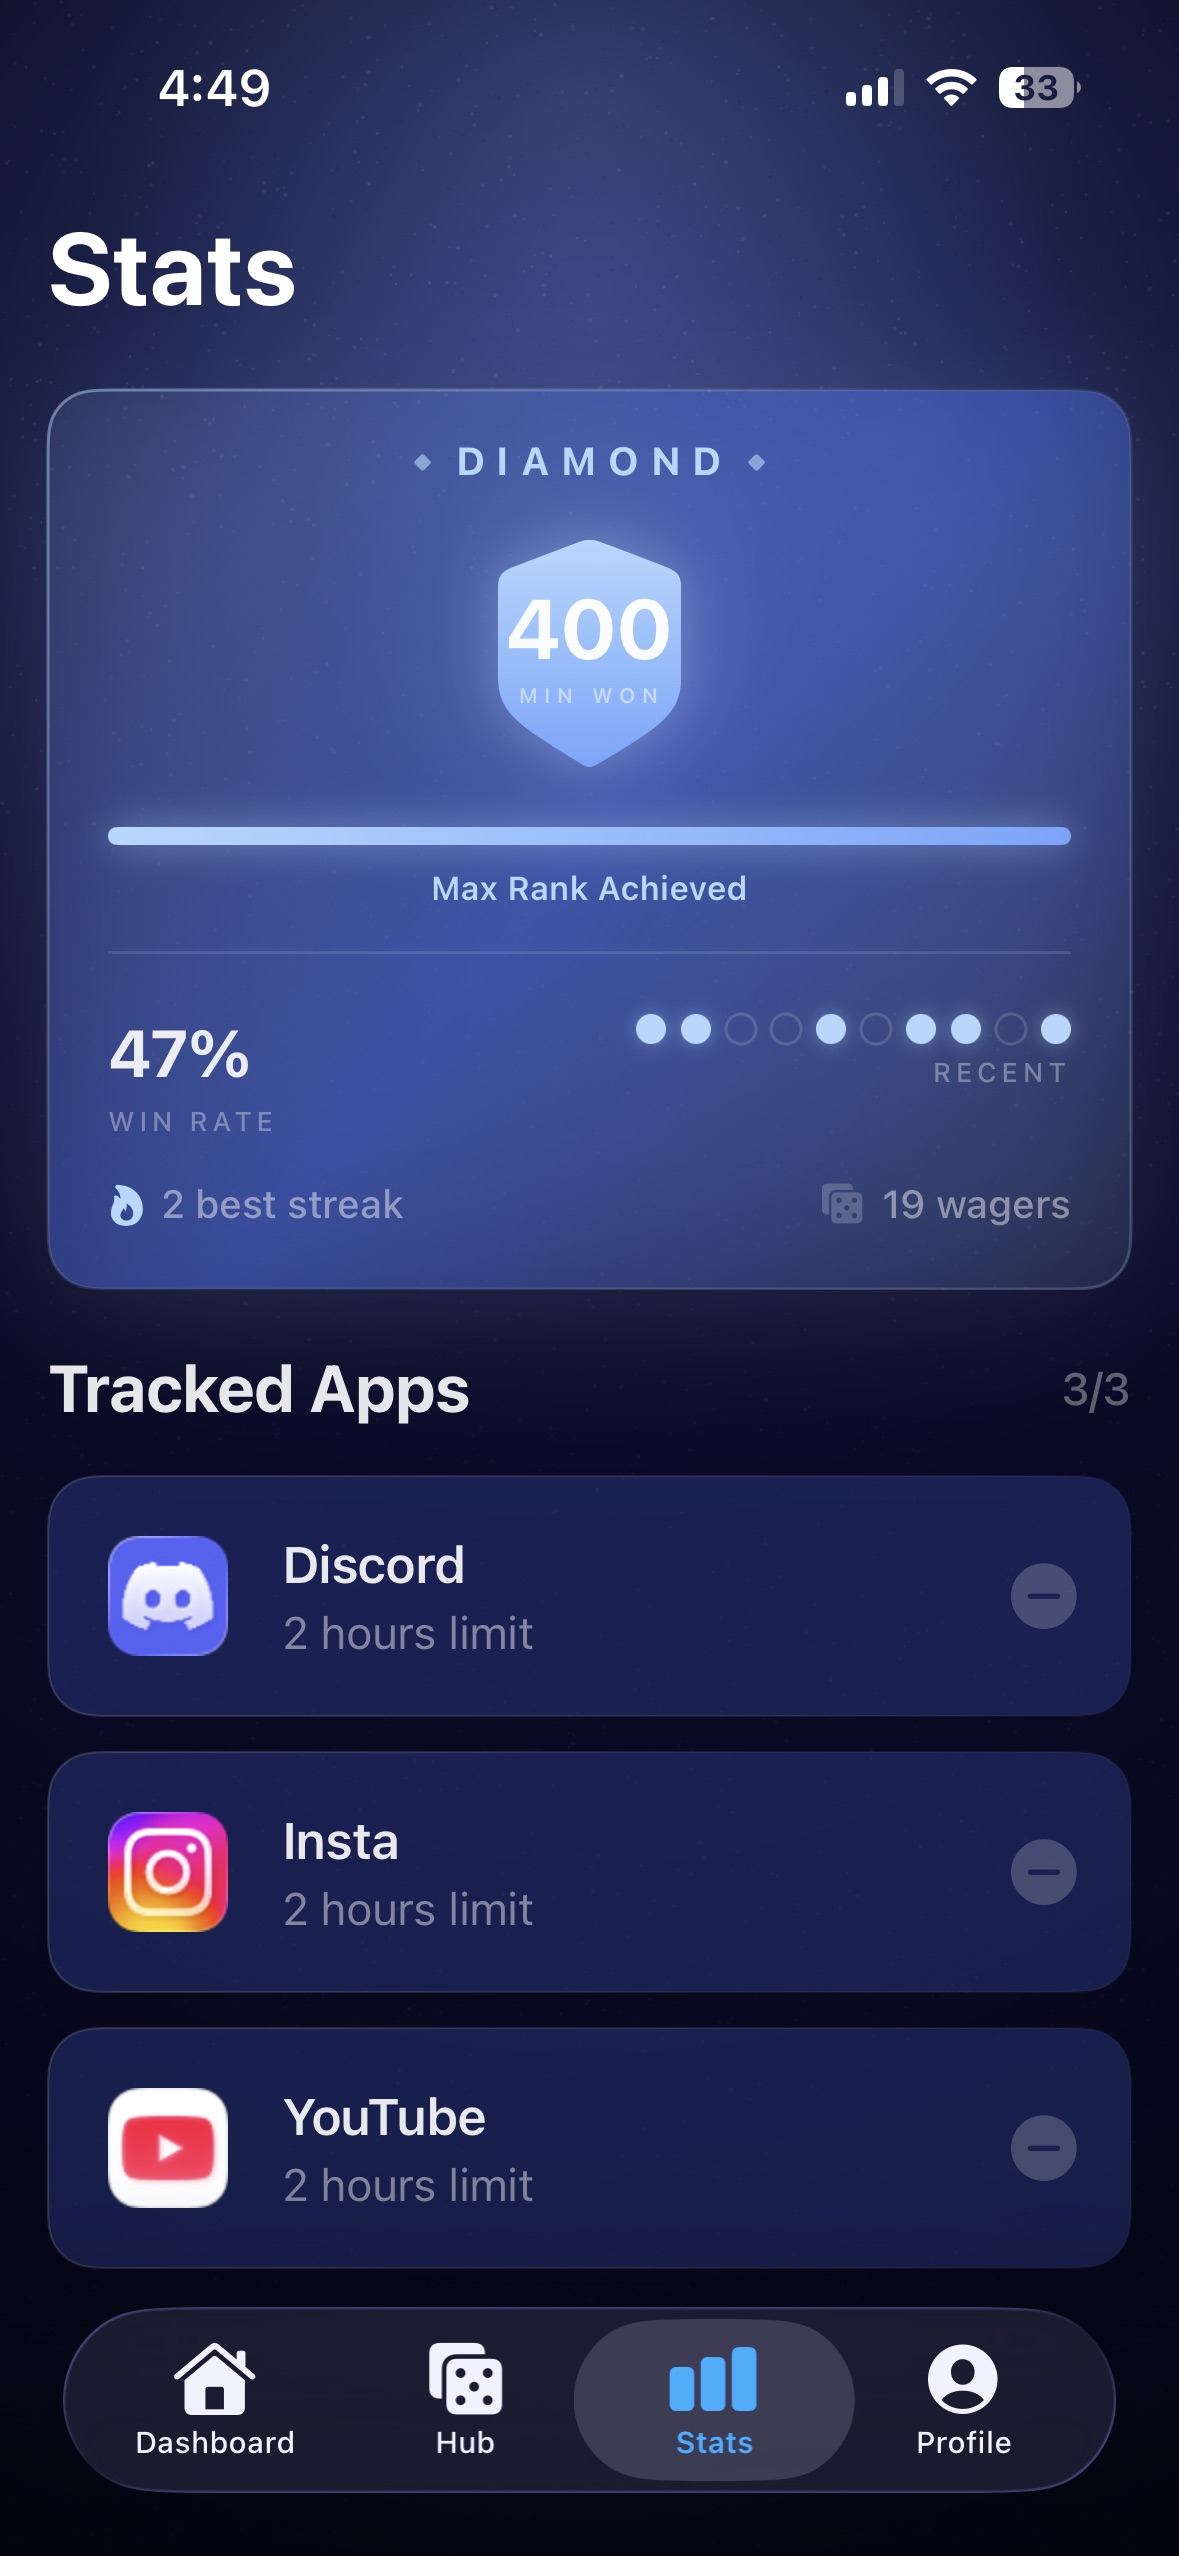
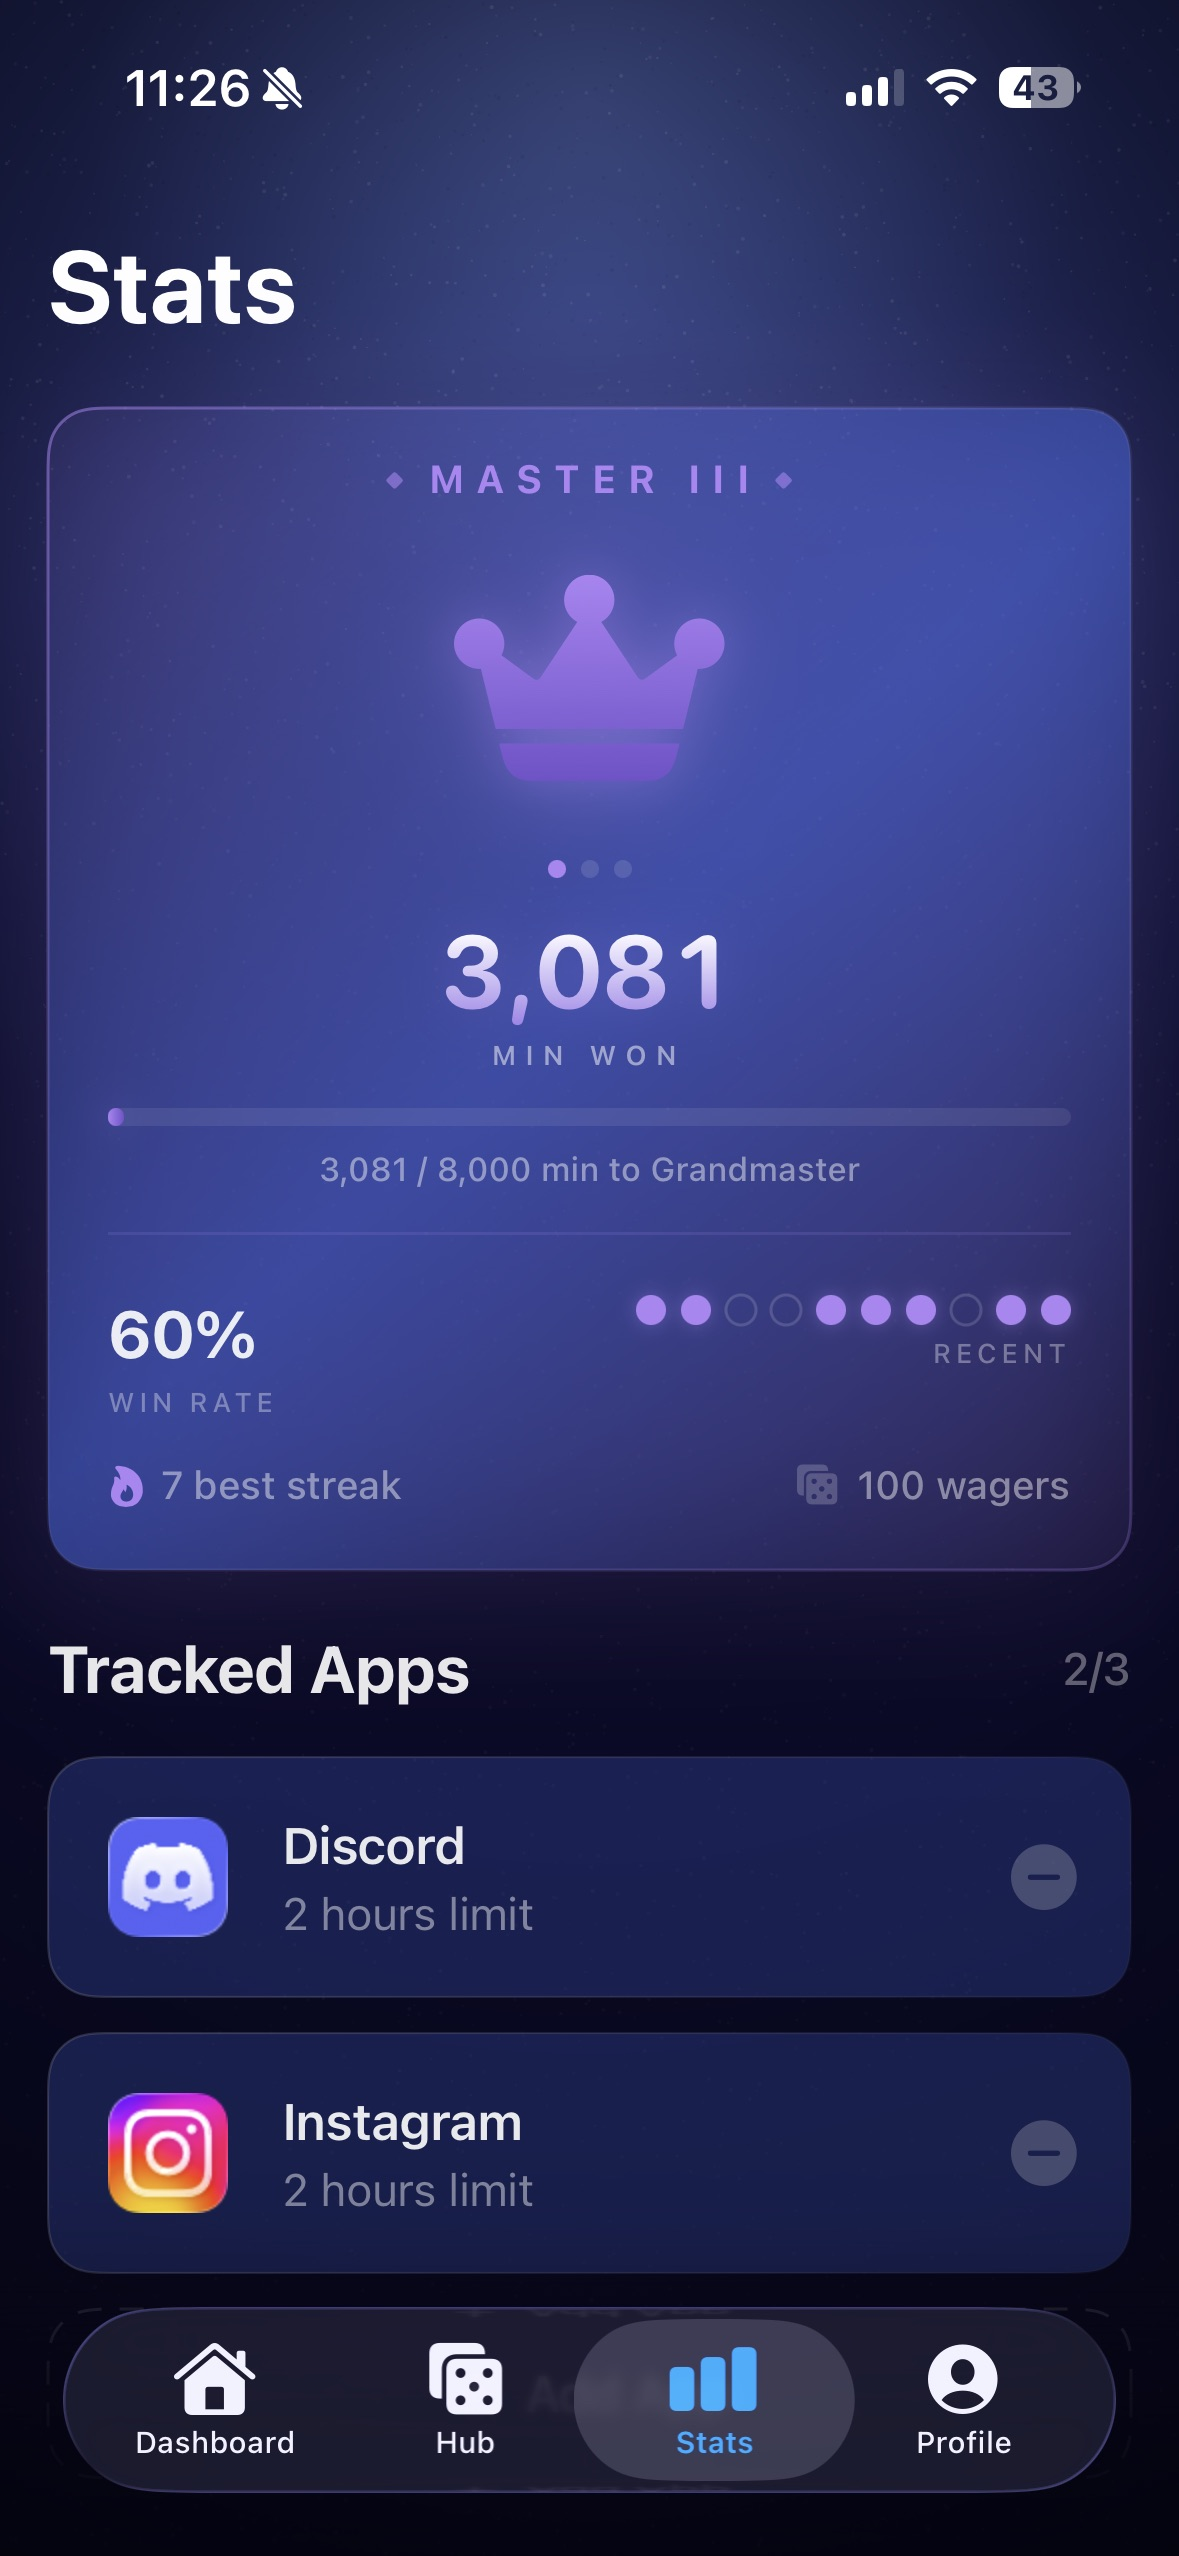
don't remember

diff --git a/assets/site.css b/assets/site.css
@@ -620,7 +620,14 @@ a { color: var(--glow); }
 .hex--bronze { background: linear-gradient(160deg, #e2a877, #9c5f33); }
 .hex--silver { background: linear-gradient(160deg, #e8edf7, #97a2b8); }
 .hex--gold { background: linear-gradient(160deg, #f3cd7d, var(--gold-deep)); }
+.hex--platinum { background: linear-gradient(160deg, #e6fbf4, #93bdb6); }
 .hex--diamond { background: linear-gradient(160deg, #d8ecff, #7fb4e8); }
+/* Exotic elite tiers break the metal ramp */
+.hex--master { background: linear-gradient(160deg, #d9b8ff, #7a3fd0); }
+.hex--grandmaster { background: linear-gradient(160deg, #ffb0a6, #c0143c); }
+.hex--legend {
+  background: conic-gradient(from 210deg, #ffd6f5, #b8e1ff, #c4ffe0, #ffe9b8, #ffd6f5);
+}
 .rank-badge .hex span {
   width: 34px;
   height: 40px;
@@ -631,12 +638,29 @@ a { color: var(--glow); }
   color: var(--ink);
   font-size: 0.8125rem;
 }
+.rank-badge small {
+  font-size: 0.625rem;
+  font-weight: 700;
+  letter-spacing: 0;
+  color: var(--dim);
+  opacity: 0.8;
+}
+/* Exotic badges glow and carry a crown emblem instead of a letter */
+.rank-badge--exotic { color: var(--ink); }
+.rank-badge--exotic .hex {
+  box-shadow: 0 0 0 1px rgba(255, 255, 255, 0.28), 0 4px 16px rgba(0, 0, 0, 0.35);
+}
+.hex--master span { color: #d9b8ff; }
+.hex--grandmaster span { color: #ff9d92; }
+.hex--legend span { color: #cfe8ff; }
+.hex--legend span svg { filter: drop-shadow(0 0 4px rgba(184, 225, 255, 0.6)); }
 .rank-device {
   width: min(210px, 60vw);
   margin: 0 auto;
+  align-self: end; /* bleed off the card's bottom edge, not float mid-card */
   border-radius: clamp(30px, 13.5%, 40px) clamp(30px, 13.5%, 40px) 0 0;
   border-bottom: none;
-  aspect-ratio: 1179 / 1700; /* cropped peek */
+  aspect-ratio: 1179 / 2150; /* tall cropped peek */
 }
 .rank-device img { object-position: top; border-radius: clamp(24px, 11%, 34px) clamp(24px, 11%, 34px) 0 0; }
 .feature--pro { padding: 28px 26px; }

diff --git a/index.html b/index.html
@@ -242,13 +242,17 @@
         <div class="feature feature--wide feature--rank card reveal">
           <div class="rank-copy">
             <div class="icon" aria-hidden="true"><svg viewBox="0 0 24 24" width="22" height="22" fill="none" stroke="currentColor" stroke-width="2" stroke-linecap="round" stroke-linejoin="round"><path d="M12 2l8 5v10l-8 5-8-5V7z"/></svg></div>
-            <h3>Climb from Bronze to Diamond</h3>
-            <p>Every minute you ever win counts toward your lifetime rank. The grind is the reward.</p>
+            <h3>Climb from Bronze to Legend</h3>
+            <p>Every minute you ever win counts toward your lifetime rank: eight tiers, three divisions each (III&nbsp;→&nbsp;II&nbsp;→&nbsp;I). Push past the metals into the exotic elite ranks. The grind is the reward.</p>
             <div class="rank-row">
-              <span class="rank-badge"><span class="hex hex--bronze"><span>B</span></span>Bronze</span>
-              <span class="rank-badge"><span class="hex hex--silver"><span>S</span></span>Silver</span>
-              <span class="rank-badge"><span class="hex hex--gold"><span>G</span></span>Gold</span>
-              <span class="rank-badge"><span class="hex hex--diamond"><span>D</span></span>Diamond</span>
+              <span class="rank-badge"><span class="hex hex--bronze"><span>B</span></span>Bronze<small>0 min</small></span>
+              <span class="rank-badge"><span class="hex hex--silver"><span>S</span></span>Silver<small>60 min</small></span>
+              <span class="rank-badge"><span class="hex hex--gold"><span>G</span></span>Gold<small>200 min</small></span>
+              <span class="rank-badge"><span class="hex hex--platinum"><span>P</span></span>Platinum<small>500 min</small></span>
+              <span class="rank-badge"><span class="hex hex--diamond"><span>D</span></span>Diamond<small>1,200 min</small></span>
+              <span class="rank-badge rank-badge--exotic"><span class="hex hex--master"><span><svg viewBox="0 0 24 24" width="18" height="18" fill="currentColor" aria-hidden="true"><path d="M5 16L3 6l5 4 4-6 4 6 5-4-2 10H5z"/></svg></span></span>Master<small>3,000 min</small></span>
+              <span class="rank-badge rank-badge--exotic"><span class="hex hex--grandmaster"><span><svg viewBox="0 0 24 24" width="18" height="18" fill="currentColor" aria-hidden="true"><path d="M5 16L3 6l5 4 4-6 4 6 5-4-2 10H5z"/></svg></span></span>Grandmaster<small>8,000 min</small></span>
+              <span class="rank-badge rank-badge--exotic"><span class="hex hex--legend"><span><svg viewBox="0 0 24 24" width="18" height="18" fill="currentColor" aria-hidden="true"><path d="M5 16L3 6l5 4 4-6 4 6 5-4-2 10H5z"/></svg></span></span>Legend<small>20,000 min</small></span>
             </div>
           </div>
           <div class="rank-device device">